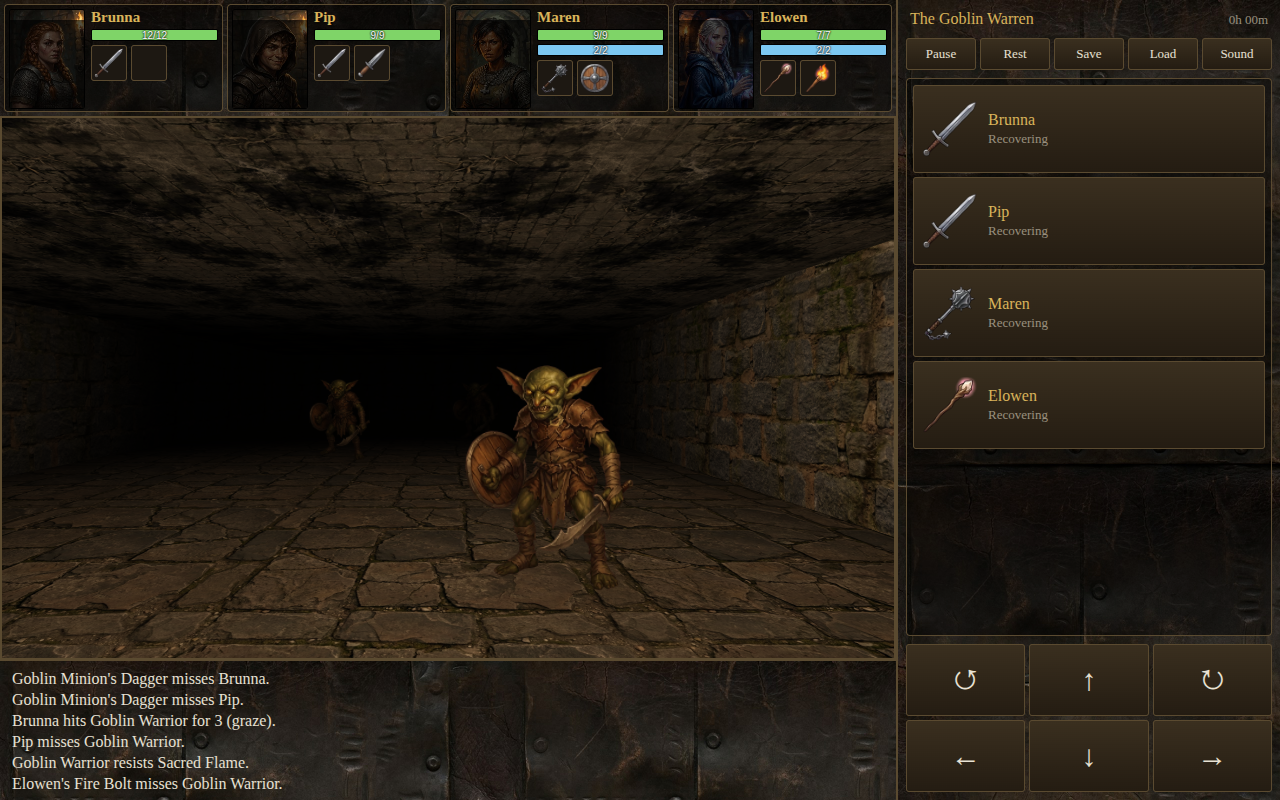
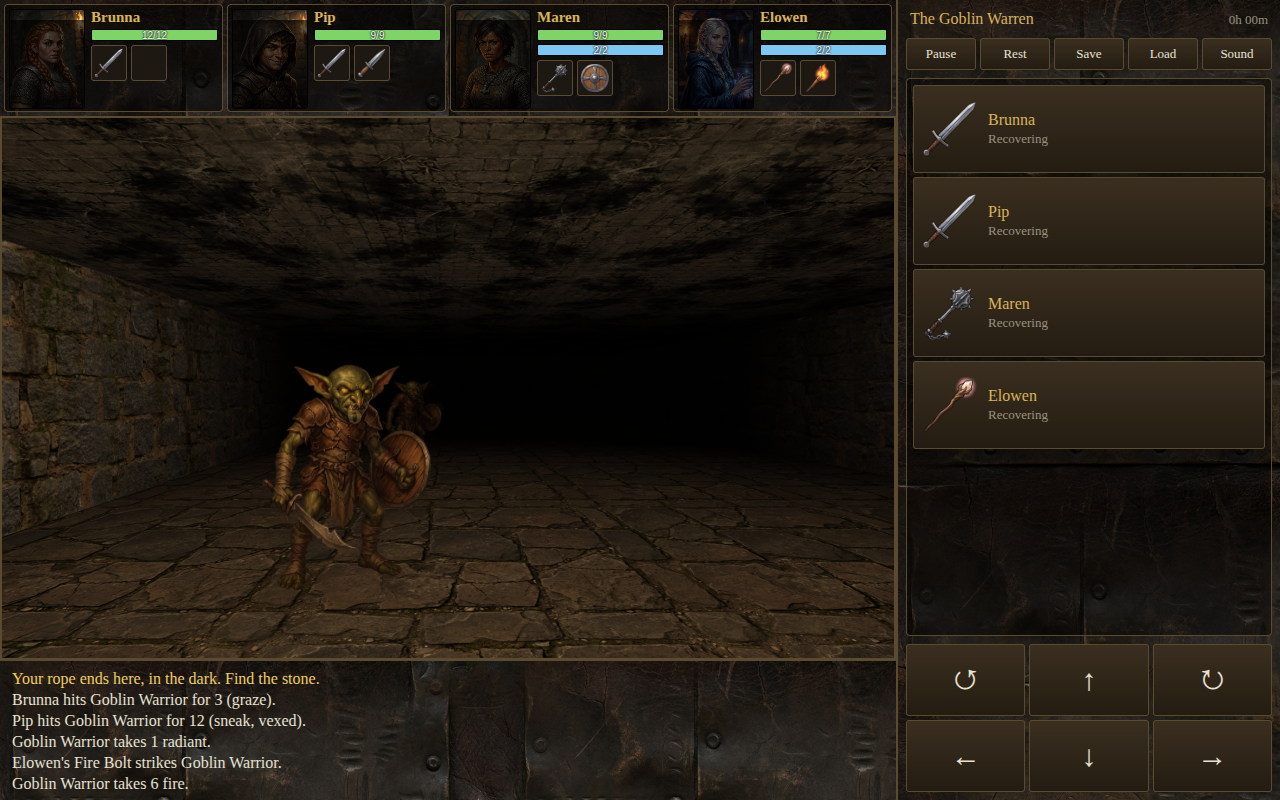
Fix mirrored 3D view and remap movement keys
The map is left-handed but the camera assumed right-handed, so the picture
was drawn mirrored: left and right looked backwards, and off-center clicks
hit the wrong side. Clip-space x is now flipped to correct it.

The left and right arrows now sidestep, and PgUp and PgDn turn. The browser
test checks that the picture, clicks, movement and turning agree.

diff --git a/main.js b/main.js
@@ -146,7 +146,7 @@ class App {
   onKey(e) {
     if (!this.game || !this.playing || e.target.tagName === 'INPUT') return;
     this.audio.unlock();
-    const map = { KeyQ: 'turn:-1', KeyE: 'turn:1', KeyW: 'step:0', KeyS: 'step:2', KeyA: 'step:3', KeyD: 'step:1', ArrowUp: 'step:0', ArrowDown: 'step:2', ArrowLeft: 'turn:-1', ArrowRight: 'turn:1', Space: 'pause', KeyK: 'save', KeyL: 'load' };
+    const map = { KeyQ: 'turn:-1', KeyE: 'turn:1', KeyW: 'step:0', KeyS: 'step:2', KeyA: 'step:3', KeyD: 'step:1', ArrowUp: 'step:0', ArrowDown: 'step:2', ArrowLeft: 'step:3', ArrowRight: 'step:1', PageUp: 'turn:-1', PageDown: 'turn:1', Space: 'pause', KeyK: 'save', KeyL: 'load' };
     let cmd = map[e.code];
     const digit = e.code.match(/^Digit([1-4])$/);
     if (digit) cmd = `${e.shiftKey ? 'menu' : 'inv'}:${Number(digit[1]) - 1}`;

diff --git a/engine/render/view3d.js b/engine/render/view3d.js
@@ -233,6 +233,9 @@ export class View3D {
     this.forward = [fx, fy];
     const w = this.canvas.width, h = this.canvas.height;
     const proj = perspective(FOV_Y, w / h, 0.03, 40);
+    // Map coordinates are left-handed (x east, y south, z up) but lookAt assumes right-handed, which would
+    // mirror the picture. Flipping clip-space x puts east on the right when facing north.
+    proj[0] = -proj[0];
     const view = lookAt(this.cam.x, this.cam.y, EYE, this.cam.x + fx, this.cam.y + fy, EYE, 0, 0, 1);
     this.viewProj = multiply(proj, view);
     this.proj = proj;

diff --git a/README.md b/README.md
@@ -19,9 +19,9 @@ item, click the near floor to set it down, or further away to throw it.
 
 | Keys | |
 |---|---|
-| W S / arrows | Forward, back |
-| A D | Sidestep |
-| Q E / left right | Turn |
+| W S / up down | Forward, back |
+| A D / left right | Sidestep left, right |
+| Q E / PgUp PgDn | Turn left, right |
 | 1-4 | A character's gear and stats |
 | Shift+1-4 | A character's actions |
 | Space | Pause (you can still give orders) |
